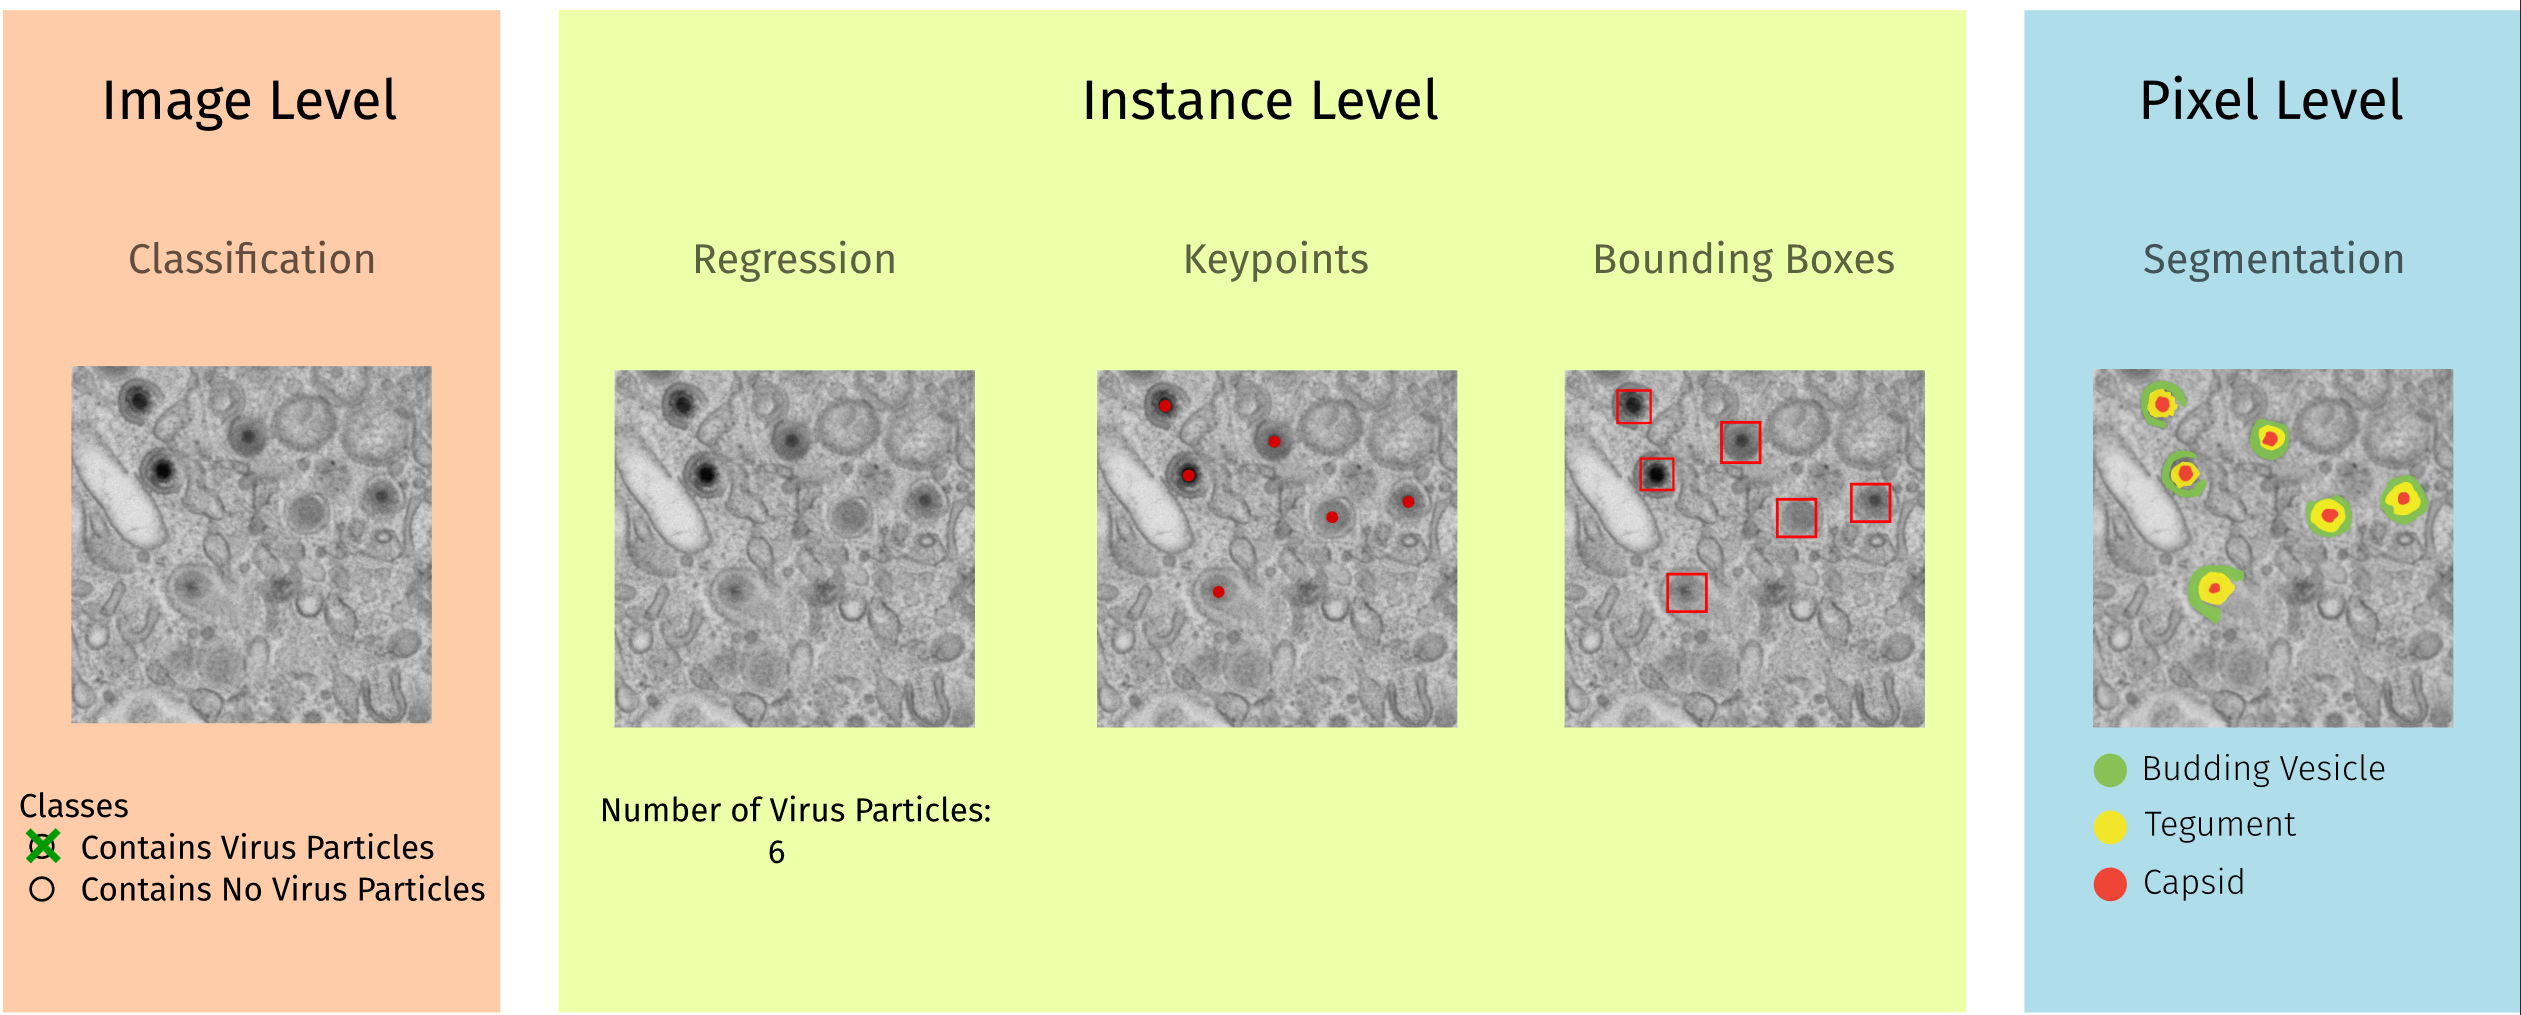
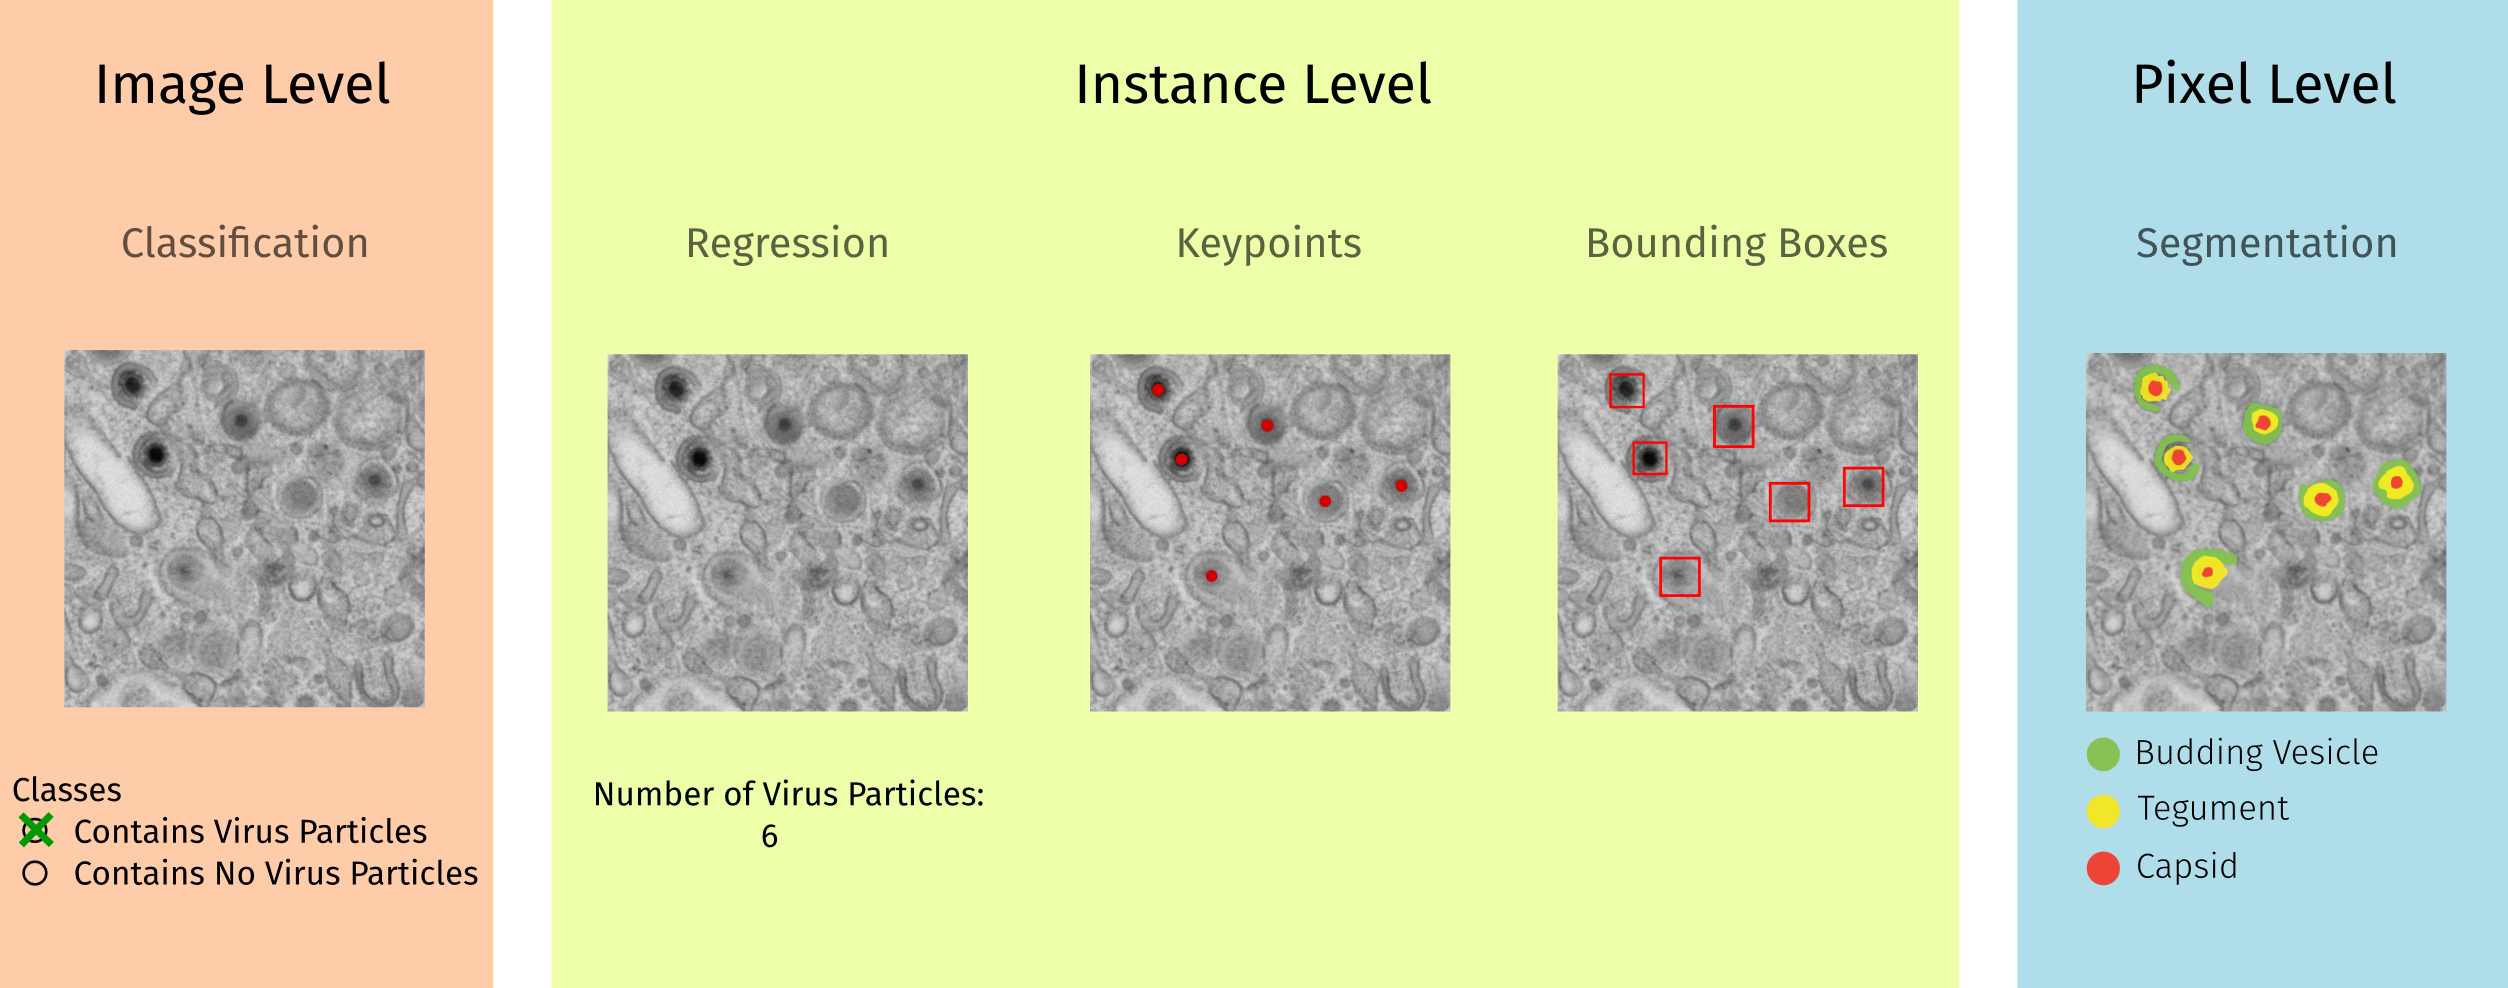
adapt layout

diff --git a/index.html b/index.html
@@ -82,6 +82,21 @@
       box-shadow: rgba(0, 0, 0, .3) 2px 8px 4px -6px;
     }
 
+    .gray-background {
+      background-color: rgb(228, 228, 228);
+      /* Green background */
+      padding: 20px;
+      /* Padding inside the element */
+      border-radius: 10px;
+      /* Rounded corners */
+      box-shadow: 0 4px 8px rgba(0, 0, 0, 0.2);
+      /* Subtle shadow for depth */
+      font-size: 16px;
+      /* Font size */
+      margin: 20px 0;
+      /* Margin outside the element */
+    }
+
     .green-background {
       background-color: #dde9afff;
       /* Green background */
@@ -1246,14 +1261,16 @@ End teaser image -->
                   space. The
                   London, Edinburgh, and Dublin Philosophical Magazine and Journal of Science, 2(11):559–572,
                   1901.</i></small></p>
-            
-            <p><small><i>[14] Scott M Lundberg and Su-In Lee. A unified approach to interpreting model predictions. Advances
-              in neural information processing systems, 30, 2017.</i></small></p>
-            <p><small><i>[15] Marco Tulio Ribeiro, Sameer Singh, and Carlos Guestrin. ”why should I trust you?”: Explaining
-              the predictions of any classifier. In Proceedings of the 22nd ACM SIGKDD International Confer-
-              ence on Knowledge Discovery and Data Mining, San Francisco, CA, USA, August 13-17, 2016,
-              pages 1135–1144, 2016.</i></small></p>
-            
+
+            <p><small><i>[14] Scott M Lundberg and Su-In Lee. A unified approach to interpreting model predictions.
+                  Advances
+                  in neural information processing systems, 30, 2017.</i></small></p>
+            <p><small><i>[15] Marco Tulio Ribeiro, Sameer Singh, and Carlos Guestrin. ”why should I trust you?”:
+                  Explaining
+                  the predictions of any classifier. In Proceedings of the 22nd ACM SIGKDD International Confer-
+                  ence on Knowledge Discovery and Data Mining, San Francisco, CA, USA, August 13-17, 2016,
+                  pages 1135–1144, 2016.</i></small></p>
+
           </div>
 
         </div>
@@ -1281,103 +1298,112 @@ End teaser image -->
         <p>We design our notebooks in such way, that they follow the suggested DEEP-EM TOOLBOX workflow stages.
           Within our notebooks, we further provide additional info on how to annotate and preprocess your own data in
           order to plug it into the pipeline of the use case.</p>
+
         <h3>Image to Value(s)</h3>
-        <h4>Explainable Virus Quantification</h4>
-        <h5>Challenge: Deep Learning as Black Box</h5>
-        <p>Within this Image to Value(s) task, we are developing a regression model to quantify virus capsids and their
-          mutation stages ("naked", "budding", "enveloped") during secondary envelopment in TEM images.
-          We encourage researchers to adapt this notebook to use their own data to simplify the analysis of EM images in
-          their own lab.
-          For further details please see the project page.
-        </p>
-        <button class="button-55"
-          onclick="location.href='https://viscom-ulm.github.io/DeepEM/explainable-virus-quantification';">
-          Go to Project
-        </button>
-        <figure>
-          <img src="static/images/explainable-virus-quantification/Teaser.png"
-            alt="Teaser explainable virus quantification">
-          <figcaption id="fig:teaser-ensemble">
-            For the explainable virus quantification we train a regression model to predict the number of "naked",
-            "budding" and "enveloped" virus capsids in the input image.
-            We use GradCAM as an explainable AI technique, to make the model more trustworthy and the predictions
-            easier to coprehend.
-          </figcaption>
-        </figure>
+        <div class="gray-background">
+
+          <h4>Explainable Virus Quantification</h4>
+          <h5>Challenge: Deep Learning as Black Box</h5>
+          <p>Within this Image to Value(s) task, we are developing a regression model to quantify virus capsids and
+            their
+            mutation stages ("naked", "budding", "enveloped") during secondary envelopment in TEM images.
+            We encourage researchers to adapt this notebook to use their own data to simplify the analysis of EM images
+            in
+            their own lab.
+            For further details please see the project page.
+          </p>
+          <button class="button-55"
+            onclick="location.href='https://viscom-ulm.github.io/DeepEM/explainable-virus-quantification';">
+            Go to Project
+          </button>
+          <figure>
+            <img src="static/images/explainable-virus-quantification/Teaser.png"
+              alt="Teaser explainable virus quantification">
+            <figcaption id="fig:teaser-ensemble">
+              For the explainable virus quantification we train a regression model to predict the number of "naked",
+              "budding" and "enveloped" virus capsids in the input image.
+              We use GradCAM as an explainable AI technique, to make the model more trustworthy and the predictions
+              easier to coprehend.
+            </figcaption>
+          </figure>
+        </div>
 
 
         <hr>
 
 
         <h3>Image to Image</h3>
-        <h4>Segmentation of Cellular Structures</h4>
-        <h5>Challenge: Robustness with small dataset sizes</h5>
+        <div class="gray-background">
+          <h4>Segmentation of Cellular Structures</h4>
+          <h5>Challenge: Robustness with small dataset sizes</h5>
 
-        <p>We choose the segmentation of certain cell organelles as a relevant Image to Image task.
-          Segmentation is an important tool in EM image analysis as it contributes to a better visualisation of
-          certain
-          organelles and complex cell structures,
-          which facilitates the interpretation of EM data. Segmentation allows for detailed analysis of organelle
-          morphology, spatial relationships and distribution within cells.
-          This is crucial for understanding intracellular organisation and its relationship to cell function.
-          Due to the small available dataset sizes we deploy data augmentation methods, make use of pretrained weights
-          and train an ensemble model, which has been shown to provide
-          better generalizability even when trained on smaller dataset sizes [1].
-          For further details please see the project page.
-        </p>
-        <button class="button-55"
-          onclick="location.href='https://viscom-ulm.github.io/DeepEM/segmentation-of-cellular-structures';">
-          Go to Project
-        </button>
-        <figure>
-          <img src="static/images/segmentation-of-cellular-structures/Teaser-ensemble.png"
-            alt="Depiction of ensemble model">
-          <figcaption id="fig:teaser-ensemble">
-            For the segmentation of cellular structures we follow [1] and train a so called "ensemble" model.
-            An ensemble model is a set of models which are used to make multiple predictions for the same input data.
-            The predictions are then combined to retrieve a more robust prediction.
+          <p>We choose the segmentation of certain cell organelles as a relevant Image to Image task.
+            Segmentation is an important tool in EM image analysis as it contributes to a better visualisation of
+            certain
+            organelles and complex cell structures,
+            which facilitates the interpretation of EM data. Segmentation allows for detailed analysis of organelle
+            morphology, spatial relationships and distribution within cells.
+            This is crucial for understanding intracellular organisation and its relationship to cell function.
+            Due to the small available dataset sizes we deploy data augmentation methods, make use of pretrained weights
+            and train an ensemble model, which has been shown to provide
+            better generalizability even when trained on smaller dataset sizes [1].
+            For further details please see the project page.
+          </p>
+          <button class="button-55"
+            onclick="location.href='https://viscom-ulm.github.io/DeepEM/segmentation-of-cellular-structures';">
+            Go to Project
+          </button>
+          <figure>
+            <img src="static/images/segmentation-of-cellular-structures/Teaser-ensemble.png"
+              alt="Depiction of ensemble model">
+            <figcaption id="fig:teaser-ensemble">
+              For the segmentation of cellular structures we follow [1] and train a so called "ensemble" model.
+              An ensemble model is a set of models which are used to make multiple predictions for the same input data.
+              The predictions are then combined to retrieve a more robust prediction.
 
-          </figcaption>
-        </figure>
-        <p><i>[1] Shaga Devan, Kavitha, et al. "Weighted average ensemble-based semantic segmentation in biological
-            electron microscopy images." Histochemistry and Cell Biology 158.5 (2022): 447-462.</i></p>
+            </figcaption>
+          </figure>
+          <p><i>[1] Shaga Devan, Kavitha, et al. "Weighted average ensemble-based semantic segmentation in biological
+              electron microscopy images." Histochemistry and Cell Biology 158.5 (2022): 447-462.</i></p>
 
-
+        </div>
         <hr>
 
         <h3>2D to 3D</h3>
-        <h4>Deep Learning Based Tomographic Reconstruction of Scanning Transmission Electron Microscopy (STEM) Images
-        </h4>
-        <h5>Challenge: Evaluation with missing ground truth</h5>
-        <p>To introduce 2D to 3D tasks, we implement a learning based tomographic reconstruction of 2D projections
-          obtained from STEM tomograms, following [1,2].
-          Reconstruction of a 3D volume allows visualisation of the true morphology, spatial relationships and
-          connectivity of certain cellular structures and
-          organelles within a cell, which may not be visible in 2D projections alone. Due to missing ground truth
-          information in the case of tomographic reconstruction,
-          we make use of pre-existing synthetic data to assess the model performance.
-          For further details please see the project page.
-        </p>
-        <button class="button-55"
-          onclick="location.href='https://viscom-ulm.github.io/DeepEM/tomographic-reconstruction-stem';">
-          Go to Project
-        </button>
-        <figure>
-          <img src="static/images/tomographic-reconstruction-stem/Teaser.gif"
-            alt="Depiction of the tomographic reconstruction. (Show tilt series, model, reconstruction of Nanoparticles)">
-          <figcaption id="fig:Tomo">
-            Based on a given tilt series, we are able to generate a 3D reconstruction using self-supervised deep
-            learning.
-          </figcaption>
-        </figure>
+        <div class="gray-background">
+
+          <h4>Deep Learning Based Tomographic Reconstruction of Scanning Transmission Electron Microscopy (STEM) Images
+          </h4>
+          <h5>Challenge: Evaluation with missing ground truth</h5>
+          <p>To introduce 2D to 3D tasks, we implement a learning based tomographic reconstruction of 2D projections
+            obtained from STEM tomograms, following [1,2].
+            Reconstruction of a 3D volume allows visualisation of the true morphology, spatial relationships and
+            connectivity of certain cellular structures and
+            organelles within a cell, which may not be visible in 2D projections alone. Due to missing ground truth
+            information in the case of tomographic reconstruction,
+            we make use of pre-existing synthetic data to assess the model performance.
+            For further details please see the project page.
+          </p>
+          <button class="button-55"
+            onclick="location.href='https://viscom-ulm.github.io/DeepEM/tomographic-reconstruction-stem';">
+            Go to Project
+          </button>
+          <figure>
+            <img src="static/images/tomographic-reconstruction-stem/Teaser.gif"
+              alt="Depiction of the tomographic reconstruction. (Show tilt series, model, reconstruction of Nanoparticles)">
+            <figcaption id="fig:Tomo">
+              Based on a given tilt series, we are able to generate a 3D reconstruction using self-supervised deep
+              learning.
+            </figcaption>
+          </figure>
 
 
-        <p></p>
-        <p><i>[1] Kniesel, Hannah, et al. "Clean implicit 3d structure from noisy 2d stem images." Proceedings of the
-            IEEE/CVF Conference on Computer Vision and Pattern Recognition. 2022.</i></p>
-        <p><i>[2] Mildenhall, Ben, et al. "Nerf: Representing scenes as neural radiance fields for view synthesis."
-            Communications of the ACM 65.1 (2021): 99-106.</i></p>
-
+          <p></p>
+          <p><i>[1] Kniesel, Hannah, et al. "Clean implicit 3d structure from noisy 2d stem images." Proceedings of the
+              IEEE/CVF Conference on Computer Vision and Pattern Recognition. 2022.</i></p>
+          <p><i>[2] Mildenhall, Ben, et al. "Nerf: Representing scenes as neural radiance fields for view synthesis."
+              Communications of the ACM 65.1 (2021): 99-106.</i></p>
+        </div>
         <hr>
 
       </div>
